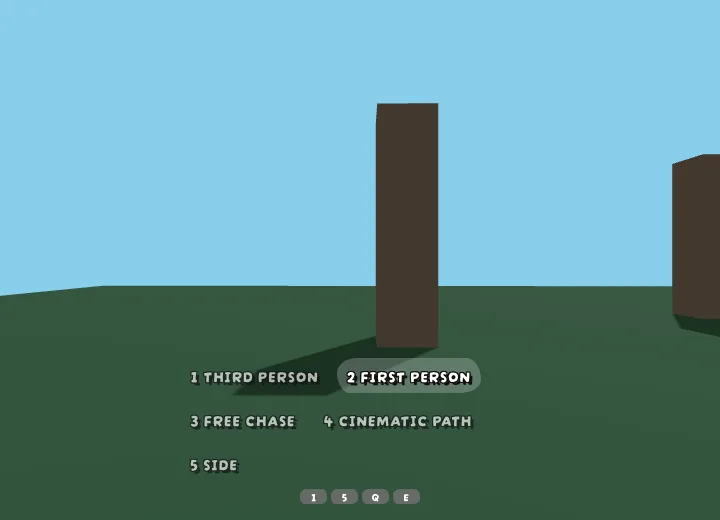
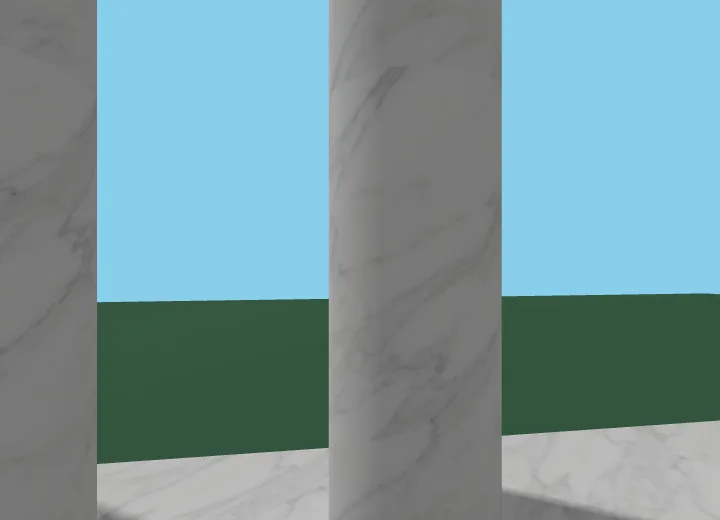
docs: recapture the camera stills inside the colonnade
The stills still showed the pillar arena the monument replaced. Recapturing them exposed why
the scene did not work for the view's own subject: a follow camera looks along its target's
heading, and on a circuit around the monument that points permanently away from it, so first
and third person both framed empty grass.

The target now walks inside the colonnade, on its floor. Every mode has columns in shot.

diff --git a/src/views/Tests/CameraShowcase/config.ts b/src/views/Tests/CameraShowcase/config.ts
@@ -21,9 +21,18 @@ export const CAMERA_CASE_LABELS: Record<CameraCase, string> = {
   path: 'Cinematic path'
 }
 
-export const TRACK_RADIUS = 38
+/**
+ * The target walks a circuit inside the colonnade, on its floor.
+ *
+ * Outside it there is nothing to see: a follow camera looks along the target's heading, which on
+ * a circle around the monument points permanently away from it, so first and third person framed
+ * empty grass. Inside, every mode has columns in shot — which is the point of the view.
+ *
+ * Radius 7 clears the columns: the nearest sit at z +/-9 with a 1.1 radius.
+ */
+export const TRACK_RADIUS = 7
 export const TRACK_SECONDS = 20
-export const TARGET_HEIGHT = 1
+export const TARGET_HEIGHT = 3
 
 /**
  * A colonnade: three steps, a ring of square columns, and the beams they carry.

diff --git a/documentation/docs/packages/threejs.md b/documentation/docs/packages/threejs.md
@@ -465,14 +465,15 @@ to restore.
 
 ## What each camera looks like
 
-The same target, the same arena, the three follow modes:
+The same target walking the same circuit inside the colonnade, the mode switched between them.
+Captured from `/tests/CameraShowcase`.
 
-|                                                                                         |                                                                                   |
-| --------------------------------------------------------------------------------------- | --------------------------------------------------------------------------------- |
-| ![Third person: the target framed from behind and above](/img/camera/third-person.webp) | ![First person: eye level, looking down the track](/img/camera/first-person.webp) |
-| **Third person.** Behind and above the target, looking at it.                           | **First person.** At the target's eye height, looking where it is going.          |
-| ![Free chase: pulled back high over the arena](/img/camera/free-chase.webp)             |                                                                                   |
-| **Free chase.** Further back and higher, keeping the surroundings in view.              |                                                                                   |
+|                                                                                                             |                                                                                                     |
+| ----------------------------------------------------------------------------------------------------------- | --------------------------------------------------------------------------------------------------- |
+| ![Third person: the target framed from behind and above on the marble floor](/img/camera/third-person.webp) | ![First person: eye level between two columns, sky and grass beyond](/img/camera/first-person.webp) |
+| **Third person.** Behind and above the target, looking at it.                                               | **First person.** At the target's eye height, looking where it is going.                            |
+| ![Free chase: the whole monument from above and behind](/img/camera/free-chase.webp)                        | ![Cinematic path: the colonnade seen head-on from the approach](/img/camera/cinematic-path.webp)    |
+| **Free chase.** Further back and higher, keeping the surroundings in view.                                  | **Cinematic path.** A declared route, here on its approach to the monument.                         |
 
 ## Camera Utilities
 
